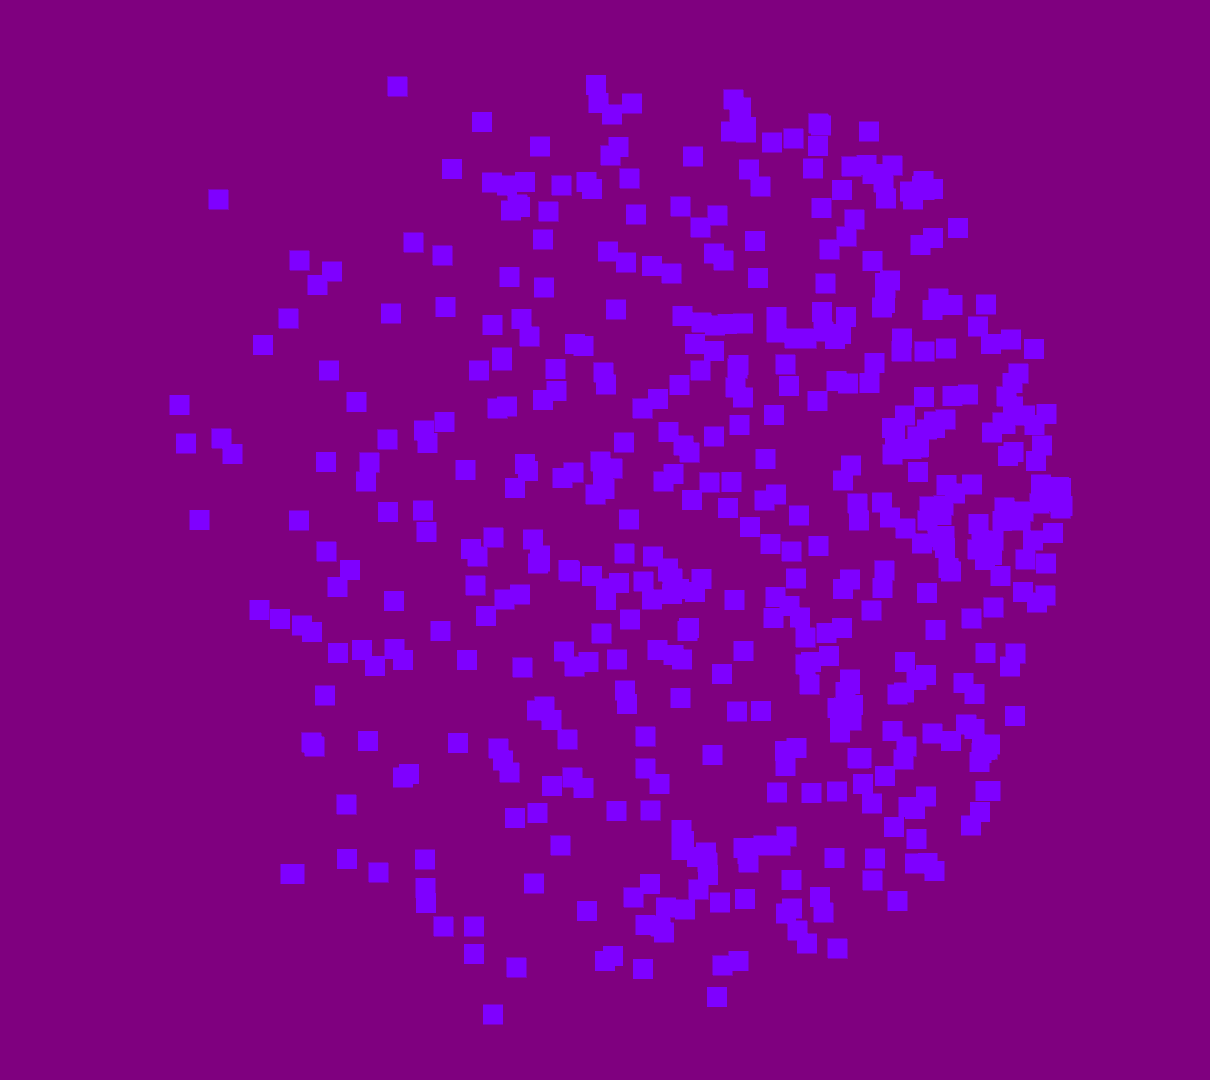
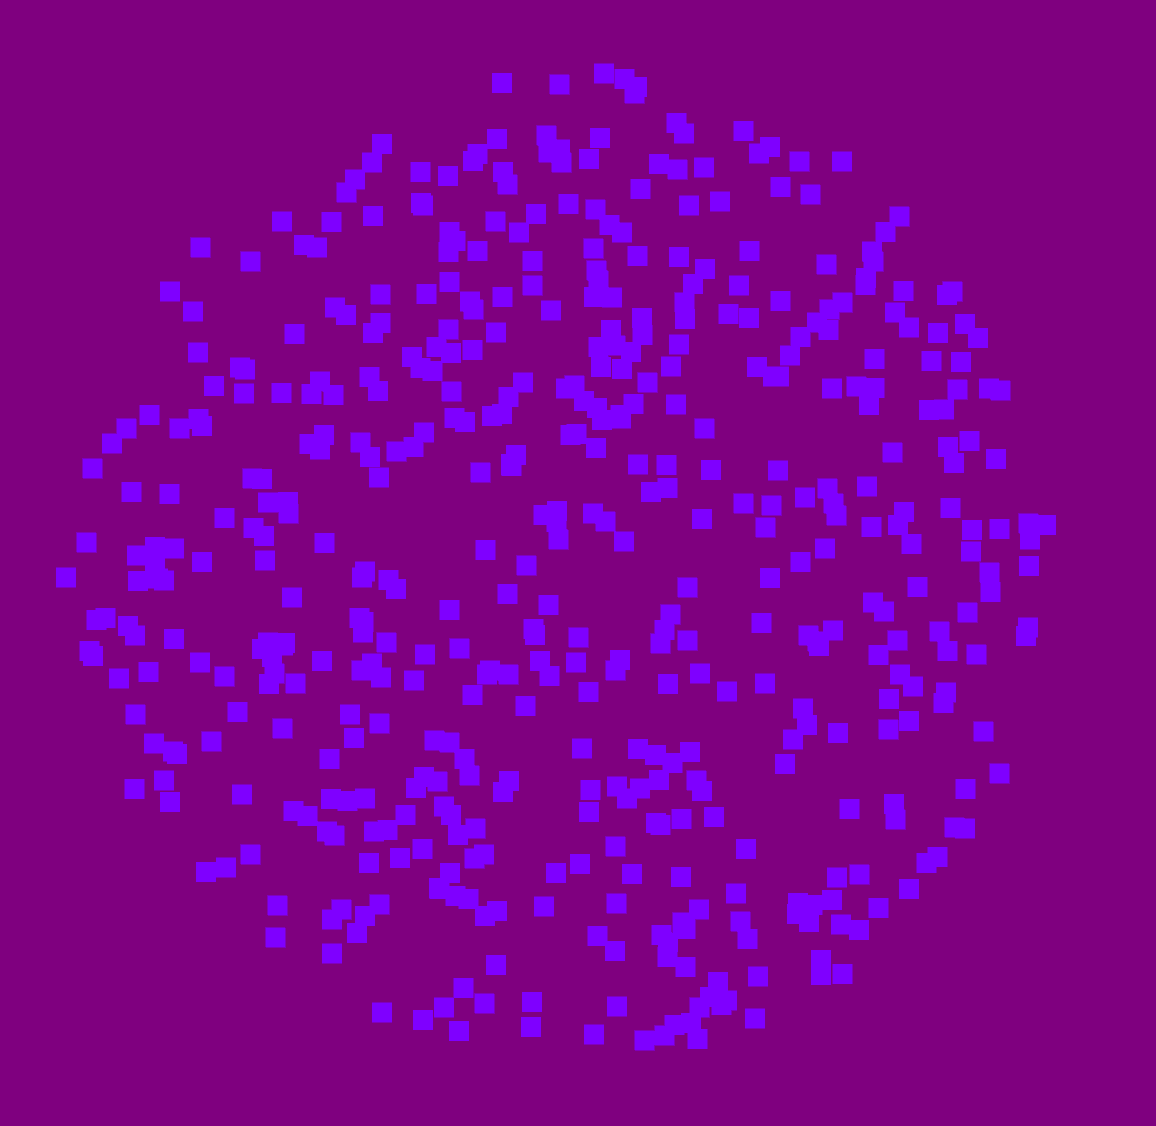
DOCS: fixed the moving_dots.rst example

Changed region(s): [[0.0311, 0.0611, 0.9343, 0.9472], [0.3114, 0.0611, 0.3426, 0.0917], [0.0623, 0.3972, 0.0934, 0.4278]]

diff --git a/docs/moving_dots.rst b/docs/moving_dots.rst
@@ -270,15 +270,15 @@ widget gets larger, the color changed to blue, and the dots became larger:
     :align: center
 
 MovingDots(radius=500, color=[.5, 0., 1.], scale=10.0, speed=200,
-           speed_variance=100, lifespan=10, num_dots=500, coherence=1.)
+           speed_variance=100, lifespan=0.02, num_dots=500, coherence=1.)
 This is the same parameters as the above example except the speed has increase,
 the speed_variance has been set so some dots move faster or slower than the mean,
-the number of dots has increased to 500, the lifespan has increased to 10, and
+the number of dots has increased to 500, the lifespan has decreased to 0.02, and
 the coherence is 1. making all of the dots move in the same direction to the right:
 
 .. image:: _static/scale_color_radius_speed_coherence_number_moving_dots.png
-    :width: 1210
-    :height: 1080
+    :width: 1156
+    :height: 1126
     :align: center
 
 *See moving_dots.py for complete Gabor filter creation code.*
